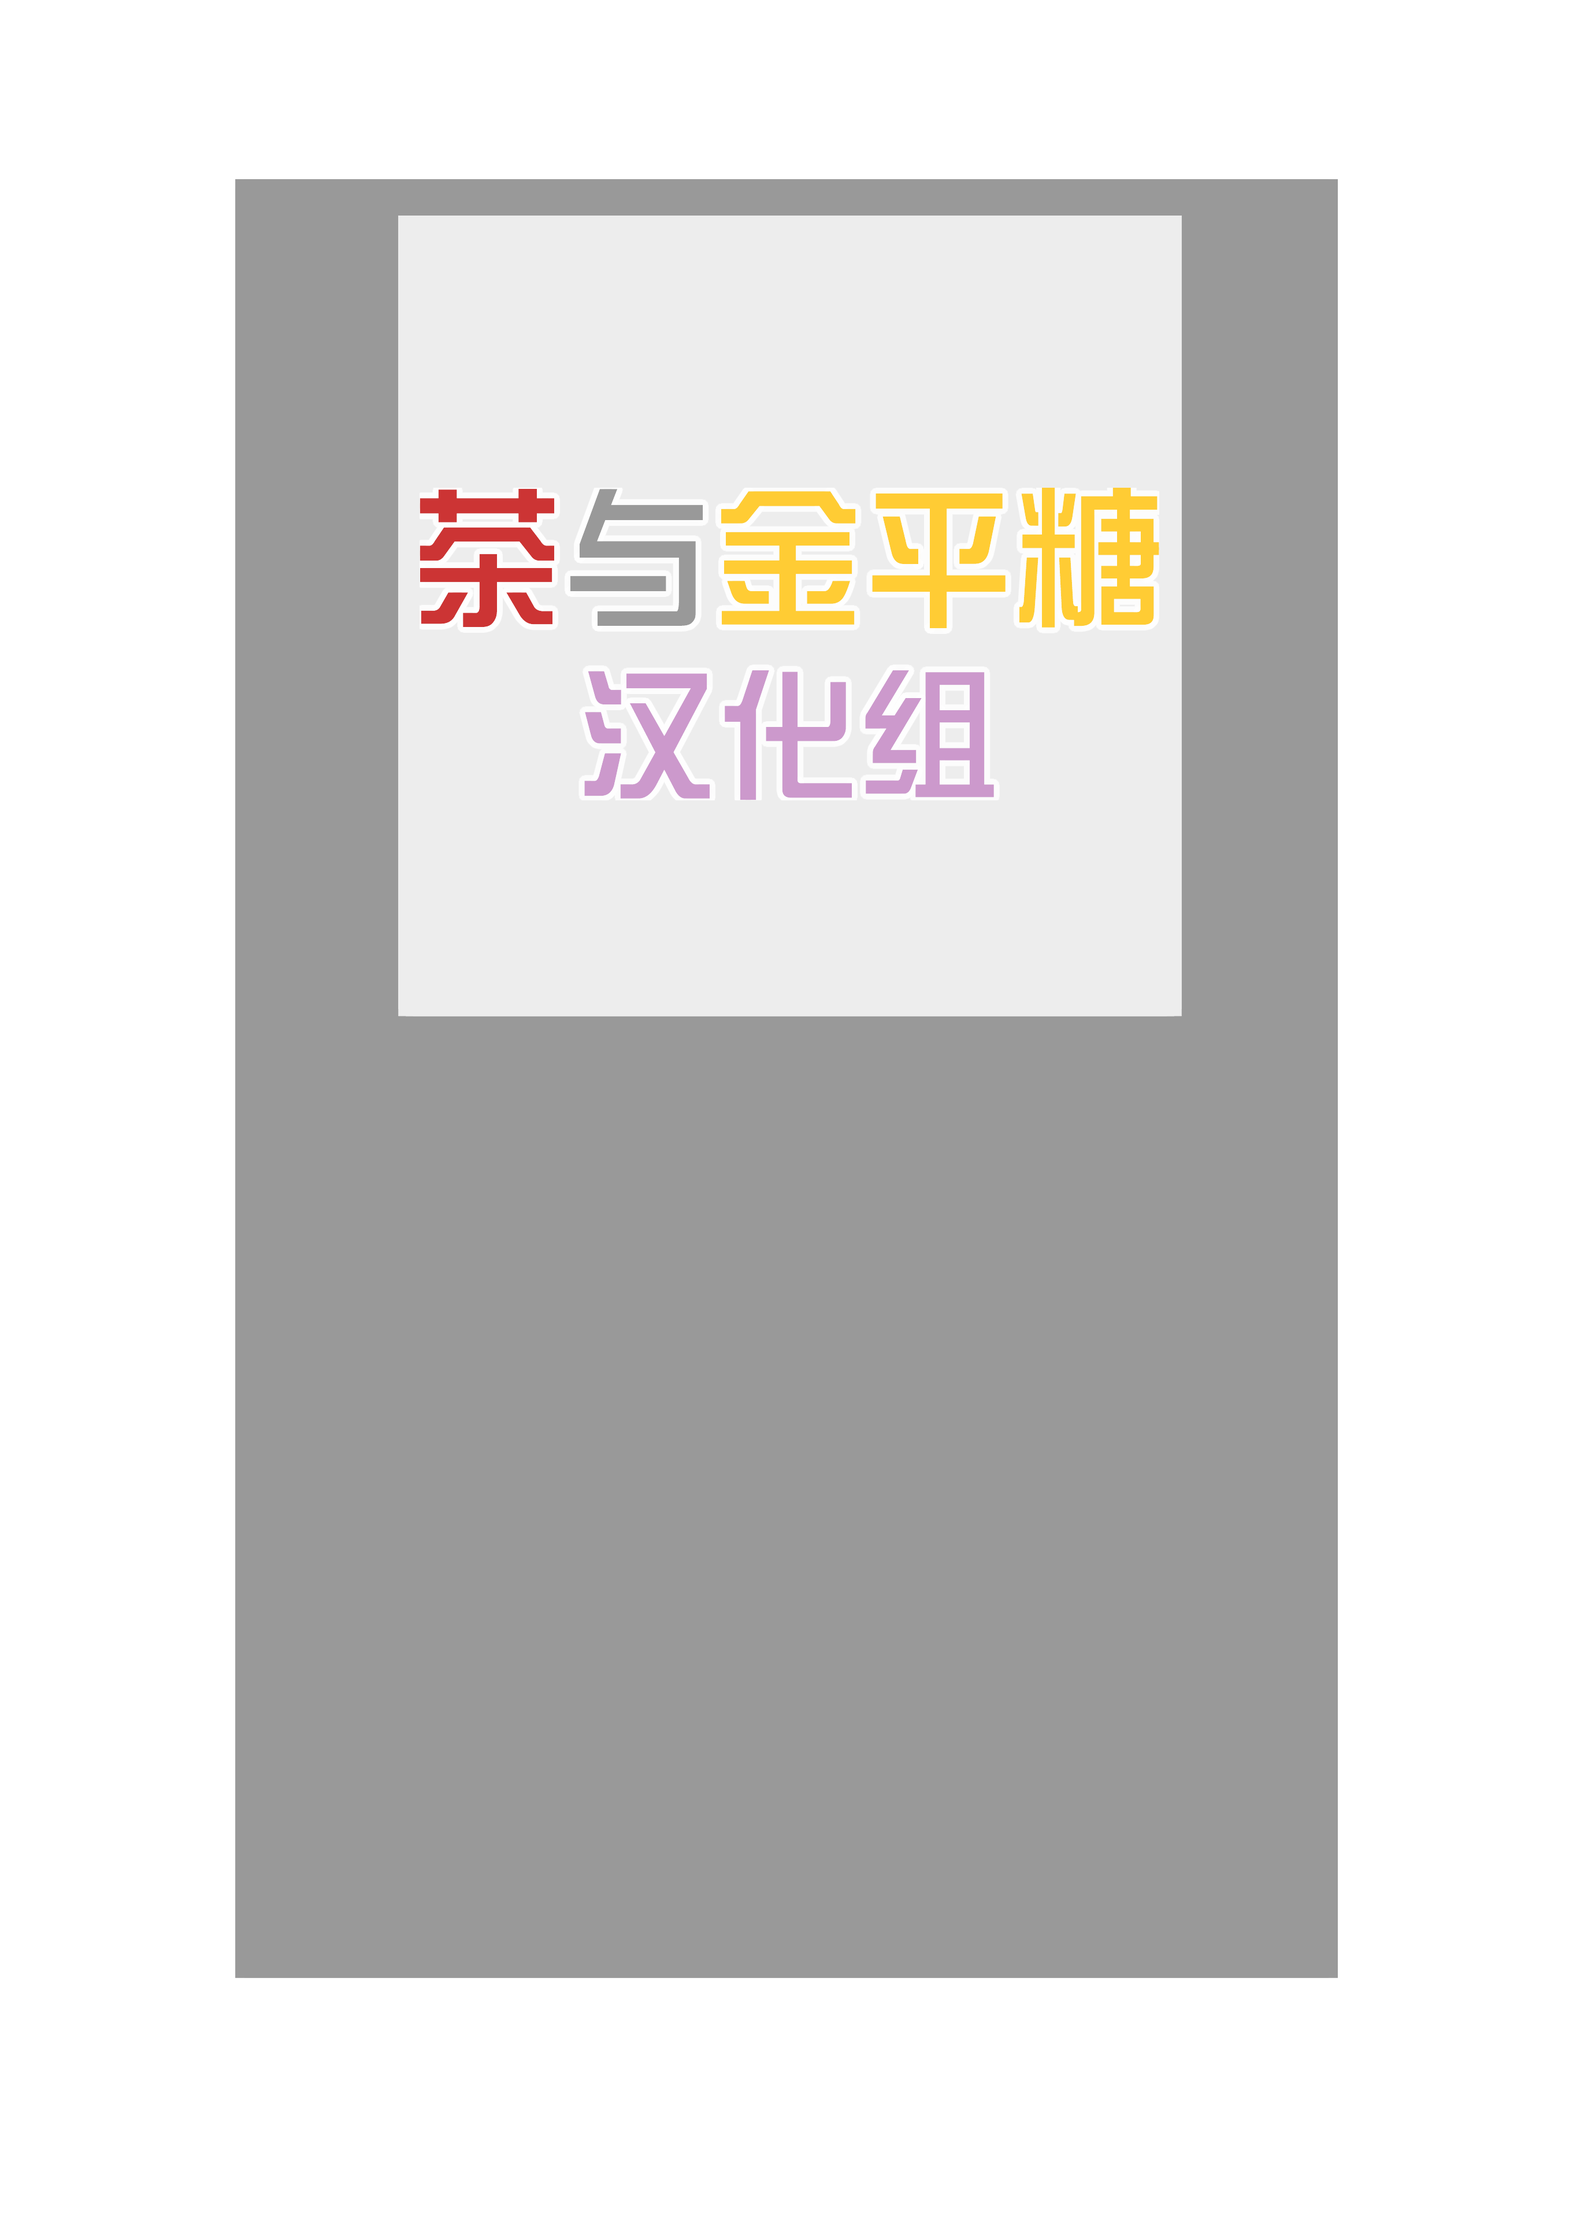
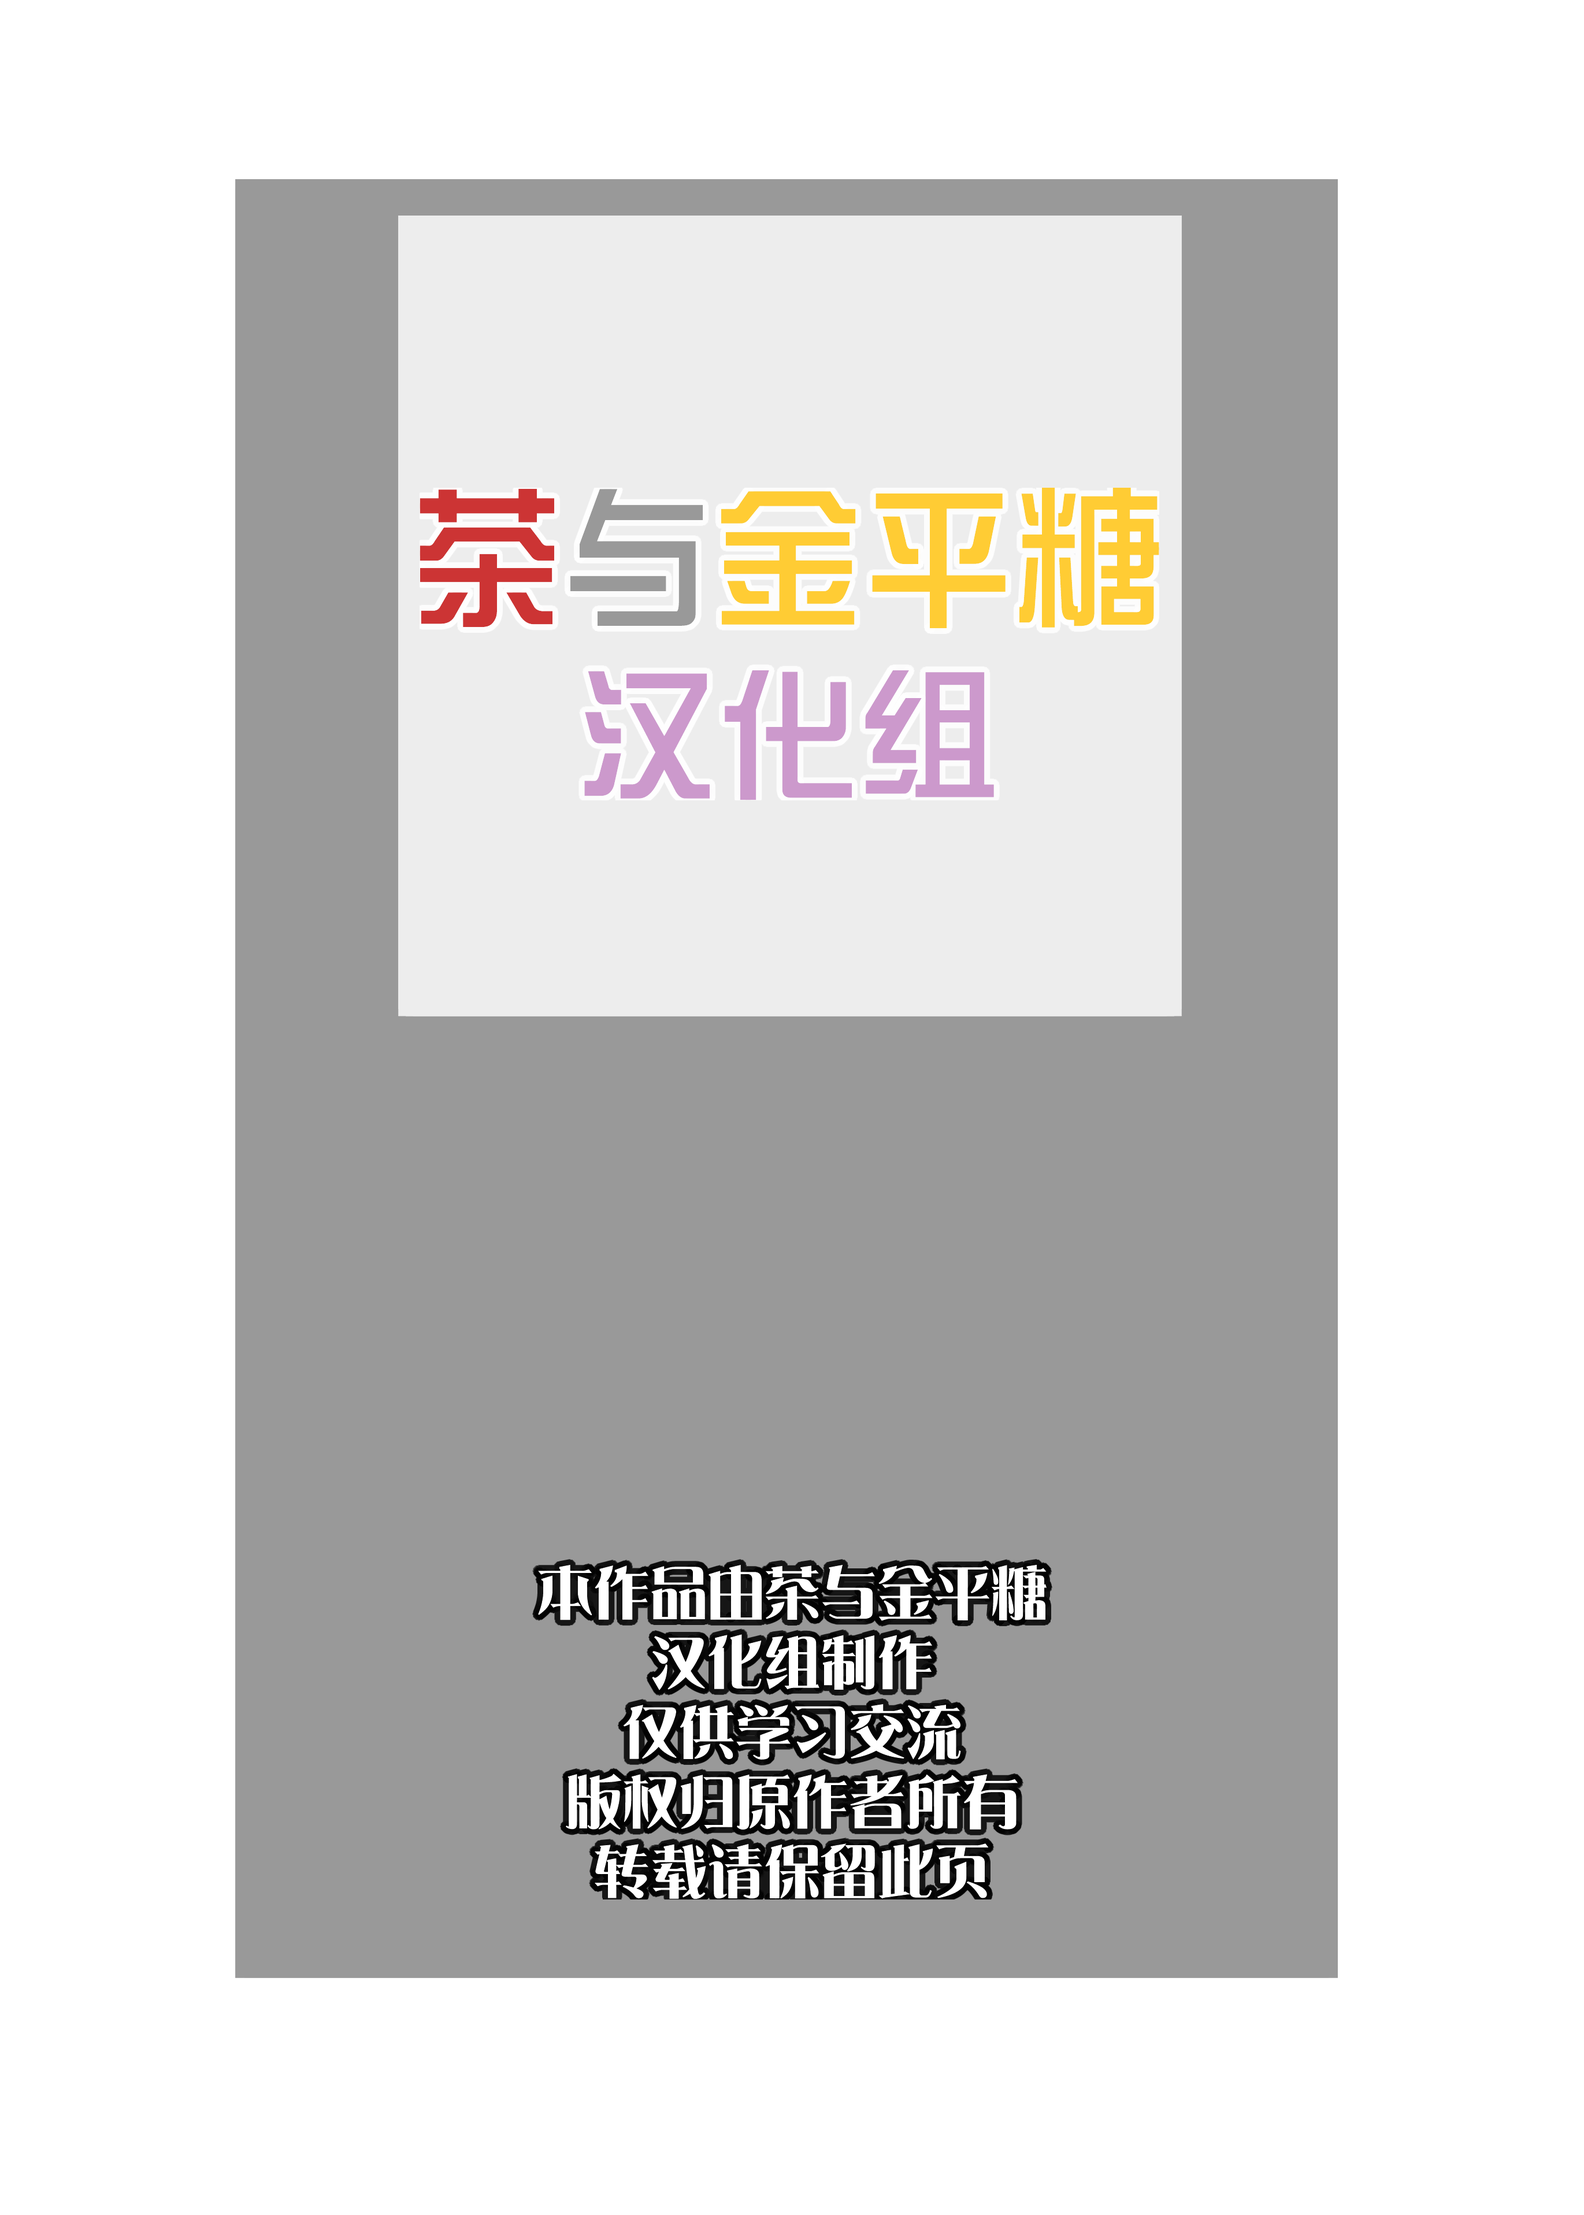
staff 页四处修正：⚙悬浮工具按钮/背景任意页/修复背景切换失效/声明固化底图
- 章节卡片右上角改单个 ⚙ 悬浮按钮，点击展开菜单（制作 Staff 页/001 重命名），
  不再挡内容
- 背景页支持任意页：数字输入（1=封面，默认 2），存 manga.json staff.bg
- 修复切换背景预览不变：staffBgIndex 没导出进 setup return，v-model 绑空
- 版权声明（本作品由…转载请保留此页）固化进 staff_base.png，与组名 logo 同为
  固定图层（PSD 原字体雅宋+黑描边，换组/换文案重导底图即可）——canvas 只画
  职位行，围绕设计块中心居中，增删行上下均匀伸缩
- 面板新增「字体来源」状态行（系统/字体文件/占位），真机排查一目了然

Changed region(s): [[0.3411, 0.683, 0.6822, 0.8693]]

diff --git a/manga_uploader/web/app.js b/manga_uploader/web/app.js
@@ -192,7 +192,13 @@ createApp({
     const staffCanvas = ref(null);
     const staffBusy = ref(false);
     const staffExportOpen = ref(false); // 确定键 ▾ 下拉（导出 PNG/JPG）
-    const staffBgIndex = ref(1); // 背景页 0-based：默认第 2 页（1），可选封面（0）
+    const staffBgIndex = ref(1); // 背景页 0-based：默认第 2 页（1），面板可改任意页
+    const staffBgPage = computed({
+      get: () => staffBgIndex.value + 1, // 界面用 1-based 页码
+      set: (v) => { staffBgIndex.value = Number.isFinite(v) ? Math.max(1, v) - 1 : 1; },
+    });
+    const staffFontStatus = ref(""); // 面板里显示实际用上的字体来源，方便排查
+    const chapterToolsOpen = ref(null); // 展开章节工具菜单的章节 key
     let staffLayout = null; // staff_layout.json 缓存
     let staffBaseImg = null; // 固定半透明底图
     const staffFonts = {}; // 已加载的 webfont
@@ -992,11 +998,17 @@ createApp({
 
     // 全局：点击 / 滚动 / 窗口缩放关闭右键菜单；右键非页面处也关闭
     document.addEventListener("click", closePageMenu);
-    document.addEventListener("click", () => { staffExportOpen.value = false; });
+    document.addEventListener("click", () => {
+      staffExportOpen.value = false;
+      chapterToolsOpen.value = null;
+    });
     document.addEventListener("contextmenu", (e) => {
       if (!e.target.closest(".pv-fig")) closePageMenu();
     }, true);
-    window.addEventListener("scroll", closePageMenu, true);
+    window.addEventListener("scroll", () => {
+      closePageMenu();
+      chapterToolsOpen.value = null;
+    }, true);
     window.addEventListener("resize", closePageMenu);
 
     // 命名工具：按当前页序重命名为 001 / 002…（只改文件名主体，扩展名保持原样）
@@ -1035,6 +1047,7 @@ createApp({
         try {
           if (document.fonts.check(`20px "${fam}"`)) {
             sec.__family = fam;
+            sec.__source = "system";
             return fam;
           }
         } catch (e) { /* check 异常就试下一个 */ }
@@ -1044,13 +1057,20 @@ createApp({
         await face.load();
         document.fonts.add(face);
         sec.__family = aliases[0];
+        sec.__source = "local";
         return sec.__family;
       } catch (e) { /* 本地文件缺失（如新 clone 没放字体）→ 占位兜底 */ }
       const face = new FontFace(sec.fallback_font, `url(${sec.fallback_file})`);
       await face.load();
       document.fonts.add(face);
       sec.__family = sec.fallback_font;
+      sec.__source = "fallback";
       return sec.__family;
+    }
+
+    function staffFontSourceTag(sec) {
+      return sec.__source === "system" ? "系统"
+        : sec.__source === "local" ? "字体文件" : "占位⚠";
     }
 
     async function loadStaffBase() {
@@ -1086,7 +1106,7 @@ createApp({
       return img;
     }
 
-    function drawStaff(canvas, layout, bgImg, baseImg, rowsFamily, decFamily) {
+    function drawStaff(canvas, layout, bgImg, baseImg, rowsFamily) {
       const ctx = canvas.getContext("2d");
       const W = bgImg.naturalWidth, H = bgImg.naturalHeight;
       staffReady = W > 0;
@@ -1111,27 +1131,13 @@ createApp({
       const rows = staffRows.value
         .map((r) => [(r[0] || "").trim(), (r[1] || "").trim()])
         .filter((r) => r[0] || r[1]);
-      // 行数增减时，整块（职位行+声明）在标定区块内垂直居中，删行不留底部空洞
-      const decCount = layout.declare.lines.length;
-      const blockH = (n) => (n - 1) * layout.rows.line_height + layout.declare.gap_after_rows
-        + (decCount - 1) * layout.declare.line_height;
-      const shift = layout.auto_center_block
-        ? (blockH((layout.default_rows || []).length || rows.length) - blockH(rows.length)) / 2
-        : 0;
+      // 声明已固化底图；职位行围绕设计块中心居中，增删行上下均匀伸缩
       ctx.fillStyle = layout.rows.color;
       ctx.font = `${layout.rows.size_px * scale}px "${rowsFamily}"`;
       rows.forEach((r, i) => {
-        const y = (layout.rows.first_center_y + shift + i * layout.rows.line_height) * scale;
+        const y = (layout.rows.block_center_y
+          + (i - (rows.length - 1) / 2) * layout.rows.line_height) * scale;
         drawText(r.join(layout.rows.join), layout.center_x * scale, y, layout.rows.stroke);
-      });
-      // 固定声明行：位置跟着行数走（加行自动下移）
-      const cfg = layout.declare;
-      ctx.fillStyle = cfg.color;
-      ctx.font = `${cfg.size_px * scale}px "${decFamily}"`;
-      const firstY = layout.rows.first_center_y + shift
-        + (rows.length - 1) * layout.rows.line_height + cfg.gap_after_rows;
-      cfg.lines.forEach((line, i) => {
-        drawText(line, layout.center_x * scale, (firstY + i * cfg.line_height) * scale, cfg.stroke);
       });
     }
 
@@ -1142,12 +1148,12 @@ createApp({
       if (!canvas || !ch) return;
       try {
         const layout = await loadStaffLayout();
-        const [rowsFamily, decFamily] = await Promise.all([
-          ensureStaffFont(layout.rows), ensureStaffFont(layout.declare),
-        ]);
+        const rowsFamily = await ensureStaffFont(layout.rows);
+        staffFontStatus.value = `字体：职位行 ${rowsFamily}（${staffFontSourceTag(layout.rows)}）`
+          + ` · 声明已固化在底图`;
         const base = await loadStaffBase();
         const bg = await loadStaffBg(ch);
-        drawStaff(canvas, layout, bg, base, rowsFamily, decFamily);
+        drawStaff(canvas, layout, bg, base, rowsFamily);
       } catch (e) {
         toastMsg("staff 预览失败：" + e.message);
       }
@@ -1223,6 +1229,20 @@ createApp({
       } finally {
         staffBusy.value = false;
       }
+    }
+
+    // 背景页码改动的钳制 + 重绘（界面 1-based，内部存 0-based）
+    function onStaffBgChange() {
+      const ch = staffPanel.ch;
+      const total = ch ? (ch.page_count || 1) : 1;
+      if (!Number.isFinite(staffBgIndex.value) || staffBgIndex.value < 0) staffBgIndex.value = 0;
+      if (staffBgIndex.value > total - 1) staffBgIndex.value = total - 1;
+      renderStaffPreview();
+    }
+
+    // 章节 ⚙ 工具菜单开关
+    function toggleChapterTools(key) {
+      chapterToolsOpen.value = chapterToolsOpen.value === key ? null : key;
     }
 
     // 导出预览成品为图片文件（不落页）：a[download] 存盘
@@ -1343,6 +1363,8 @@ createApp({
       menuReplace, menuDelete, menuMoveToFront, menuMoveToLast, menuMoveUp, menuMoveDown, menuMoveToN,
       startRenameNumeric,
       staffPanel, staffRows, staffCanvas, staffBusy, staffExportOpen,
+      staffBgPage, staffFontStatus, onStaffBgChange,
+      chapterToolsOpen, toggleChapterTools,
       openStaff, closeStaff, renderStaffPreview, saveStaffRows, renderStaffPage, exportStaffImage,
       resetPick, saveMeta,
       logLines, logBox, logOpen, logNew, clearLog, toast, modal, lanAddr,

diff --git a/manga_uploader/web/index.html b/manga_uploader/web/index.html
@@ -216,12 +216,14 @@ try {
 
             <template v-if="previewMode === 'card'">
               <div v-for="ch in previewChapters" :key="ch.key" class="pv-chapter">
-                <!-- 章节工具条：悬浮章节卡片时在右上角浮现 -->
-                <div class="pv-chapter-tools">
-                  <button class="pv-head-btn" title="制作 Staff 页（制作人员表，落 P2，重复生成覆盖）"
-                          @click="openStaff(ch)">📄 制作 Staff 页</button>
-                  <button class="pv-head-btn" title="按当前页序全部重命名为 001 / 002…（扩展名保持原样，不可撤销）"
-                          @click="startRenameNumeric(ch)">🔢 001 重命名</button>
+                <!-- 章节 ⚙ 工具按钮：点击展开 -->
+                <div class="pv-chapter-fab-wrap">
+                  <button class="pv-chapter-fab" title="章节工具"
+                          @click.stop="toggleChapterTools(ch.key)">⚙</button>
+                  <div v-if="chapterToolsOpen === ch.key" class="pv-chapter-menu" @click.stop>
+                    <button class="pv-menu-item" @click="chapterToolsOpen = null; openStaff(ch)">📄 制作 Staff 页</button>
+                    <button class="pv-menu-item" @click="chapterToolsOpen = null; startRenameNumeric(ch)">🔢 001 重命名</button>
+                  </div>
                 </div>
                 <div class="pv-head">
                   <span class="pv-title">{{ metaForm.title || ch.title }}</span>
@@ -257,7 +259,7 @@ try {
                       </figure>
                     </template>
                   </div>
-                  <p class="pv-page-hint">右键页面 = 替换 / 删除 / 移动 · 悬浮「＋」插入 · 悬浮章节卡片右上角 = Staff / 重命名</p>
+                  <p class="pv-page-hint">右键页面 = 替换 / 删除 / 移动 · 悬浮「＋」插入 · 章节右上角 ⚙ = Staff / 重命名</p>
                 </div>
 
                 <div class="pv-platforms">
@@ -600,12 +602,10 @@ try {
         </div>
         <div class="staff-editor">
           <div class="staff-bg-row">
-            <span class="staff-colon">背景</span>
-            <select v-model.number="staffBgIndex" class="input staff-bg-select"
-                    @change="renderStaffPreview()">
-              <option :value="1">第 2 页（白页/黑白封面，默认）</option>
-              <option :value="0">封面（第 1 页）</option>
-            </select>
+            <span class="staff-colon">背景页</span>
+            <input type="number" min="1" class="input staff-bg-input"
+                   v-model.number="staffBgPage" @change="onStaffBgChange">
+            <span class="staff-hint">1 = 封面 · 默认 2</span>
           </div>
           <p class="staff-hint">职位行可增减（无修图/无校对的本子直接删行，整块自动居中）</p>
           <div v-for="(row, i) in staffRows" :key="i" class="staff-row">
@@ -630,7 +630,8 @@ try {
               </div>
             </div>
           </div>
-          <p class="staff-hint">名单存 manga.json；成品由前端 canvas 按第 2 页原分辨率渲染，落页固定 P2（封面后），重复生成覆盖。</p>
+          <p class="staff-hint">名单存 manga.json；成品由前端 canvas 按背景页原分辨率渲染，落页固定 P2（封面后），重复生成覆盖。</p>
+          <p class="staff-hint staff-font-status">{{ staffFontStatus }}</p>
         </div>
       </div>
     </div>

diff --git a/manga_uploader/web/style.css b/manga_uploader/web/style.css
@@ -818,19 +818,32 @@ html, body {
   text-align: center;
 }
 
-/* 章节工具条：常显在章节卡片右上角（Staff / 重命名，独立于标题行） */
-.pv-chapter-tools {
-  position: absolute;
-  top: -12px;
-  right: 14px;
-  z-index: 5;
-  display: flex;
-  gap: 6px;
-  padding: 5px 7px;
-  background: var(--surface-2);
+/* 章节 ⚙ 工具按钮：常驻悬浮在卡片右上角，点击展开菜单 */
+.pv-chapter-fab-wrap { position: absolute; top: -14px; right: 16px; z-index: 6; }
+.pv-chapter-fab {
+  width: 32px;
+  height: 32px;
+  border-radius: 50%;
   border: 1px solid var(--border);
-  border-radius: 999px;
-  box-shadow: 0 6px 18px rgba(0, 0, 0, 0.14);
+  background: var(--surface-2);
+  color: var(--text-2);
+  font-size: 15px;
+  line-height: 1;
+  cursor: pointer;
+  box-shadow: 0 4px 14px rgba(0, 0, 0, 0.16);
+  transition: color 0.15s, border-color 0.15s;
+}
+.pv-chapter-fab:hover { color: var(--accent); border-color: var(--accent); }
+.pv-chapter-menu {
+  position: absolute;
+  top: 38px;
+  right: 0;
+  min-width: 158px;
+  padding: 4px;
+  background: var(--surface-2);
+  border: 1px solid var(--border-strong);
+  border-radius: var(--radius-sm);
+  box-shadow: 0 10px 28px rgba(0, 0, 0, 0.22);
 }
 .pv-chapter { position: relative; }
 .pv-head-btn {
@@ -937,8 +950,9 @@ html, body {
   gap: 8px;
 }
 .staff-hint { font-size: 11px; color: var(--text-3); margin: 0; }
+.staff-font-status { color: var(--text-2); }
 .staff-bg-row { display: flex; align-items: center; gap: 8px; }
-.staff-bg-select { flex: 1; min-width: 0; }
+.staff-bg-input { width: 84px; flex: none; }
 .staff-row { display: flex; align-items: center; gap: 6px; }
 .staff-role { width: 96px; flex: none; }
 .staff-name { flex: 1; min-width: 0; }
